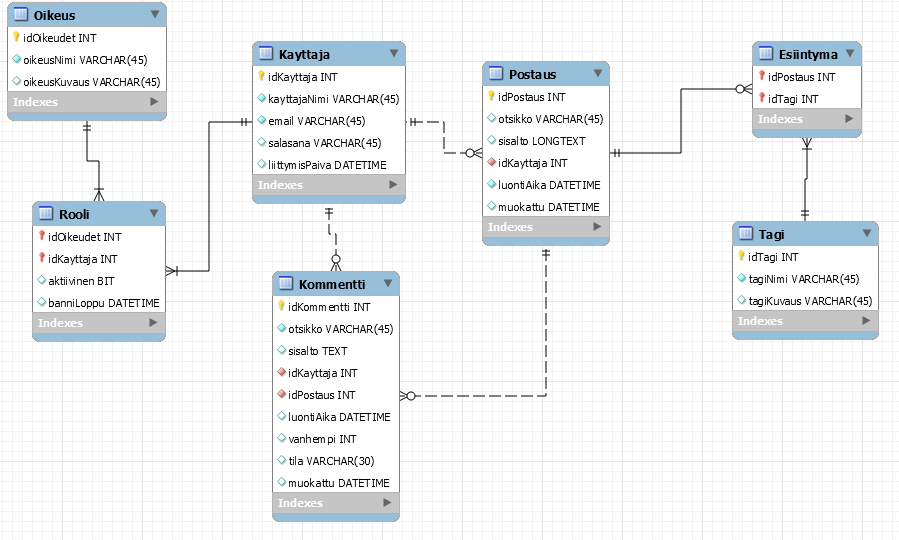
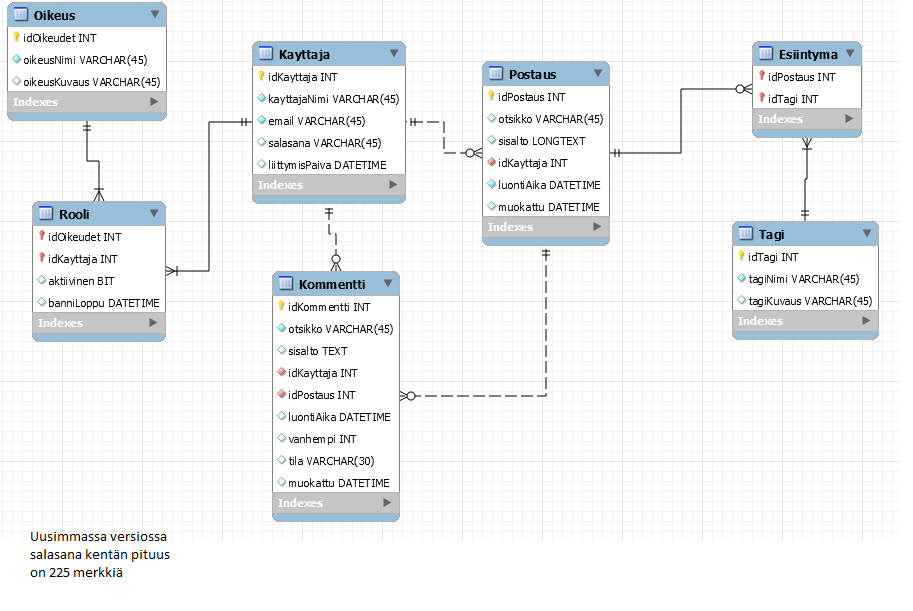
solmussa taas
waah

diff --git a/Bcrypt.class.php b/Bcrypt.class.php
@@ -1,0 +1,106 @@
+<?php
+class Bcrypt {
+  private $rounds;
+  public function __construct($rounds = 12) {
+    if(CRYPT_BLOWFISH != 1) {
+      throw new Exception("bcrypt not supported in this installation. See http://php.net/crypt");
+    }
+
+    $this->rounds = $rounds;
+  }
+
+  public function hash($input) {
+    $hash = crypt($input, $this->getSalt());
+
+    if(strlen($hash) > 13)
+      return $hash;
+
+    return false;
+  }
+
+  public function verify($input, $existingHash) {
+    $hash = crypt($input, $existingHash);
+
+    return $hash === $existingHash;
+  }
+
+  private function getSalt() {
+    $salt = sprintf('$2a$%02d$', $this->rounds);
+
+    $bytes = $this->getRandomBytes(16);
+
+    $salt .= $this->encodeBytes($bytes);
+
+    return $salt;
+  }
+
+  private $randomState;
+  private function getRandomBytes($count) {
+    $bytes = '';
+
+    if(function_exists('openssl_random_pseudo_bytes') &&
+        (strtoupper(substr(PHP_OS, 0, 3)) !== 'WIN')) { // OpenSSL is slow on Windows
+      $bytes = openssl_random_pseudo_bytes($count);
+    }
+
+    if($bytes === '' && is_readable('/dev/urandom') &&
+       ($hRand = @fopen('/dev/urandom', 'rb')) !== FALSE) {
+      $bytes = fread($hRand, $count);
+      fclose($hRand);
+    }
+
+    if(strlen($bytes) < $count) {
+      $bytes = '';
+
+      if($this->randomState === null) {
+        $this->randomState = microtime();
+        if(function_exists('getmypid')) {
+          $this->randomState .= getmypid();
+        }
+      }
+
+      for($i = 0; $i < $count; $i += 16) {
+        $this->randomState = md5(microtime() . $this->randomState);
+
+        if (PHP_VERSION >= '5') {
+          $bytes .= md5($this->randomState, true);
+        } else {
+          $bytes .= pack('H*', md5($this->randomState));
+        }
+      }
+
+      $bytes = substr($bytes, 0, $count);
+    }
+
+    return $bytes;
+  }
+
+  private function encodeBytes($input) {
+    // The following is code from the PHP Password Hashing Framework
+    $itoa64 = './ABCDEFGHIJKLMNOPQRSTUVWXYZabcdefghijklmnopqrstuvwxyz0123456789';
+
+    $output = '';
+    $i = 0;
+    do {
+      $c1 = ord($input[$i++]);
+      $output .= $itoa64[$c1 >> 2];
+      $c1 = ($c1 & 0x03) << 4;
+      if ($i >= 16) {
+        $output .= $itoa64[$c1];
+        break;
+      }
+
+      $c2 = ord($input[$i++]);
+      $c1 |= $c2 >> 4;
+      $output .= $itoa64[$c1];
+      $c1 = ($c2 & 0x0f) << 2;
+
+      $c2 = ord($input[$i++]);
+      $c1 |= $c2 >> 6;
+      $output .= $itoa64[$c1];
+      $output .= $itoa64[$c2 & 0x3f];
+    } while (1);
+
+    return $output;
+  }
+}

diff --git a/Tietokanta.class.php b/Tietokanta.class.php
@@ -1,14 +1,17 @@
 <?php
-
+require_once ("Bcrypt.class.php");
 class Tietokanta {
-    //private $stmt;
+
 	private $db;
+	private $bcrypt;
 	
     function __construct() {
 		try {
 			//require_once ("/home/H3543/db-init-harkkatyo.php");
 			require_once ("../palvelin/myslijuttu/hurhur2.php");
 			//require_once ("../php-dbconfig/db-init.php");			
+			
+			$this->bcrypt = new Bcrypt(15);
 			
 			$this->db = new PDO('mysql:host=mysql.labranet.jamk.fi;dbname='. DB_NAME .';charset=utf8', USER_NAME, PASSWORD);
 			
@@ -27,11 +30,11 @@ class Tietokanta {
     /* Tarkistetaan olivatko annetut tunnukset oikein ja jos olivat niin palautetaan
     sisään kirjautuneen käyttäjän id. Muuten palautetaan false */
 	public function kirjaudu_sisaan($kayttajaNimi, $salasana) {
-		$stmt = $this->db->prepare("SELECT idKayttaja FROM Kayttaja WHERE kayttajaNimi = ? AND salasana = ?");
-		$stmt->execute(array($kayttajaNimi, $salasana));
+				$stmt = $this->db->prepare("SELECT idKayttaja, salasana FROM Kayttaja WHERE kayttajaNimi = ?");
+		$stmt->execute(array($kayttajaNimi));
 		
-		if ($stmt->rowCount() == 1) {
-			$row = $stmt->fetch(PDO::FETCH_ASSOC);
+		$row = $stmt->fetch(PDO::FETCH_ASSOC);
+		if ($this->bcrypt->verify($salasana, $row['salasana'])) {
 			return $row['idKayttaja'];
 		} else {
 			return false;
@@ -71,8 +74,9 @@ class Tietokanta {
 		if ($stmt->rowCount() == 1) {
 			return false;
 		} else {
+			$salasana_hash = $this->bcrypt->hash($salasana);
 			$stmt = $this->db->prepare("INSERT INTO Kayttaja (kayttajaNimi, email, salasana, liittymisPaiva) VALUES(?,?,?,NOW())");
-			$stmt->execute(array($kayttajaNimi, $email, $salasana));
+			$stmt->execute(array($kayttajaNimi, $email, $salasana_hash));
 			
 			$stmt = $this->db->prepare("insert into Rooli (idOikeudet, idKayttaja) values( 1,
 									(SELECT idKayttaja FROM Kayttaja where kayttajaNimi = ? ))");

diff --git a/kaynnistys.php b/kaynnistys.php
@@ -1,0 +1,31 @@
+<?php
+require_once ("Bcrypt.class.php");
+
+try {
+	//require_once ("/home/H3543/db-init-harkkatyo.php");
+	require_once ("../palvelin/myslijuttu/hurhur2.php");
+	//require_once ("../php-dbconfig/db-init.php");			
+	
+    $bcrypt = new Bcrypt(15);
+          
+	$db = new PDO('mysql:host=mysql.labranet.jamk.fi;dbname='. DB_NAME .';charset=utf8', USER_NAME, PASSWORD);
+	
+	$db->setAttribute(PDO::ATTR_ERRMODE, PDO::ERRMODE_EXCEPTION);
+	$db->setAttribute(PDO::ATTR_EMULATE_PREPARES, false);
+} catch(PDOException $ex) {
+	echo "ErrMsg to enduser!<hr>\n";
+	echo "CatchErrMsg: " . $ex->getMessage() . "<hr>\n";
+}
+
+
+$stmt = $db->query("SELECT * FROM Kayttaja;");
+$temp = $stmt->fetchAll(PDO::FETCH_ASSOC);
+
+foreach($temp as $row) {
+    $salasana_hash = $bcrypt->hash($row['salasana']);
+    var_dump($salasana_hash);
+    var_dump($row);
+    
+    $stmt = $db->prepare("UPDATE Kayttaja SET salasana=? WHERE idKayttaja=?");
+	$stmt->execute(array($salasana_hash, $row['idKayttaja']));
+}
